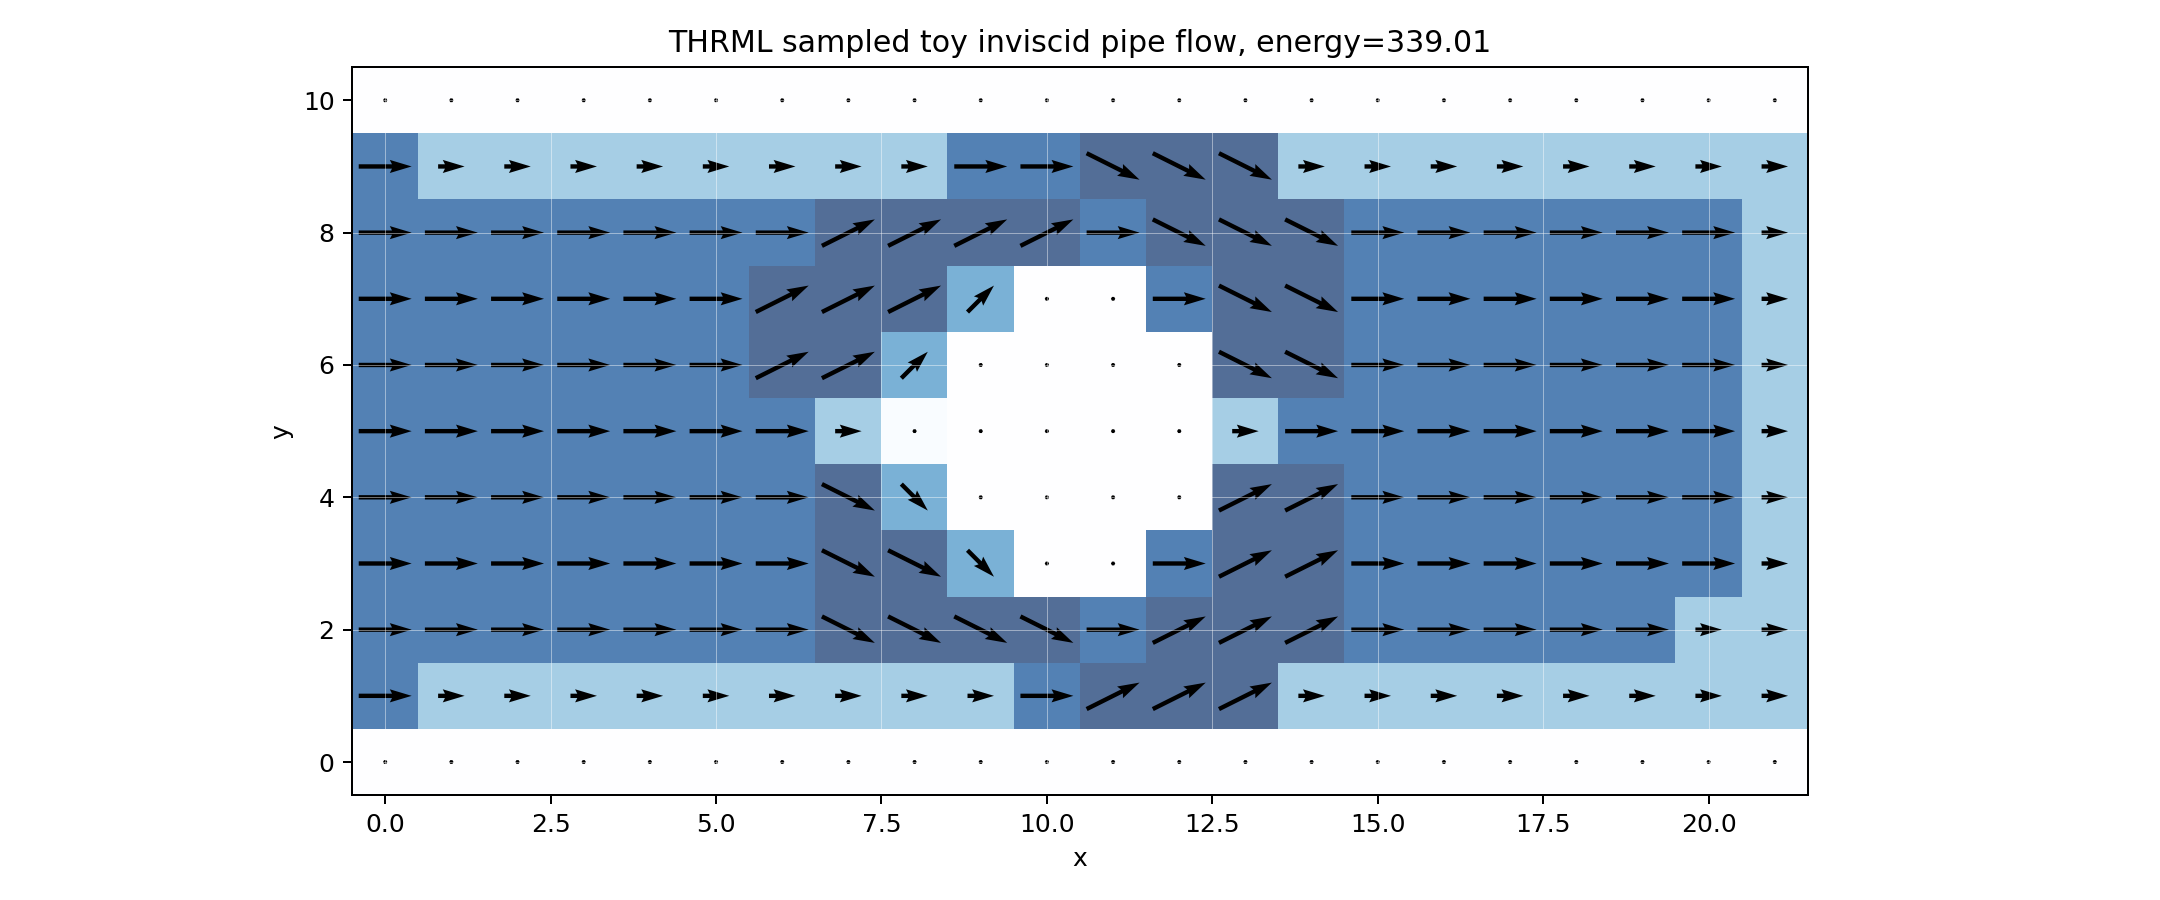
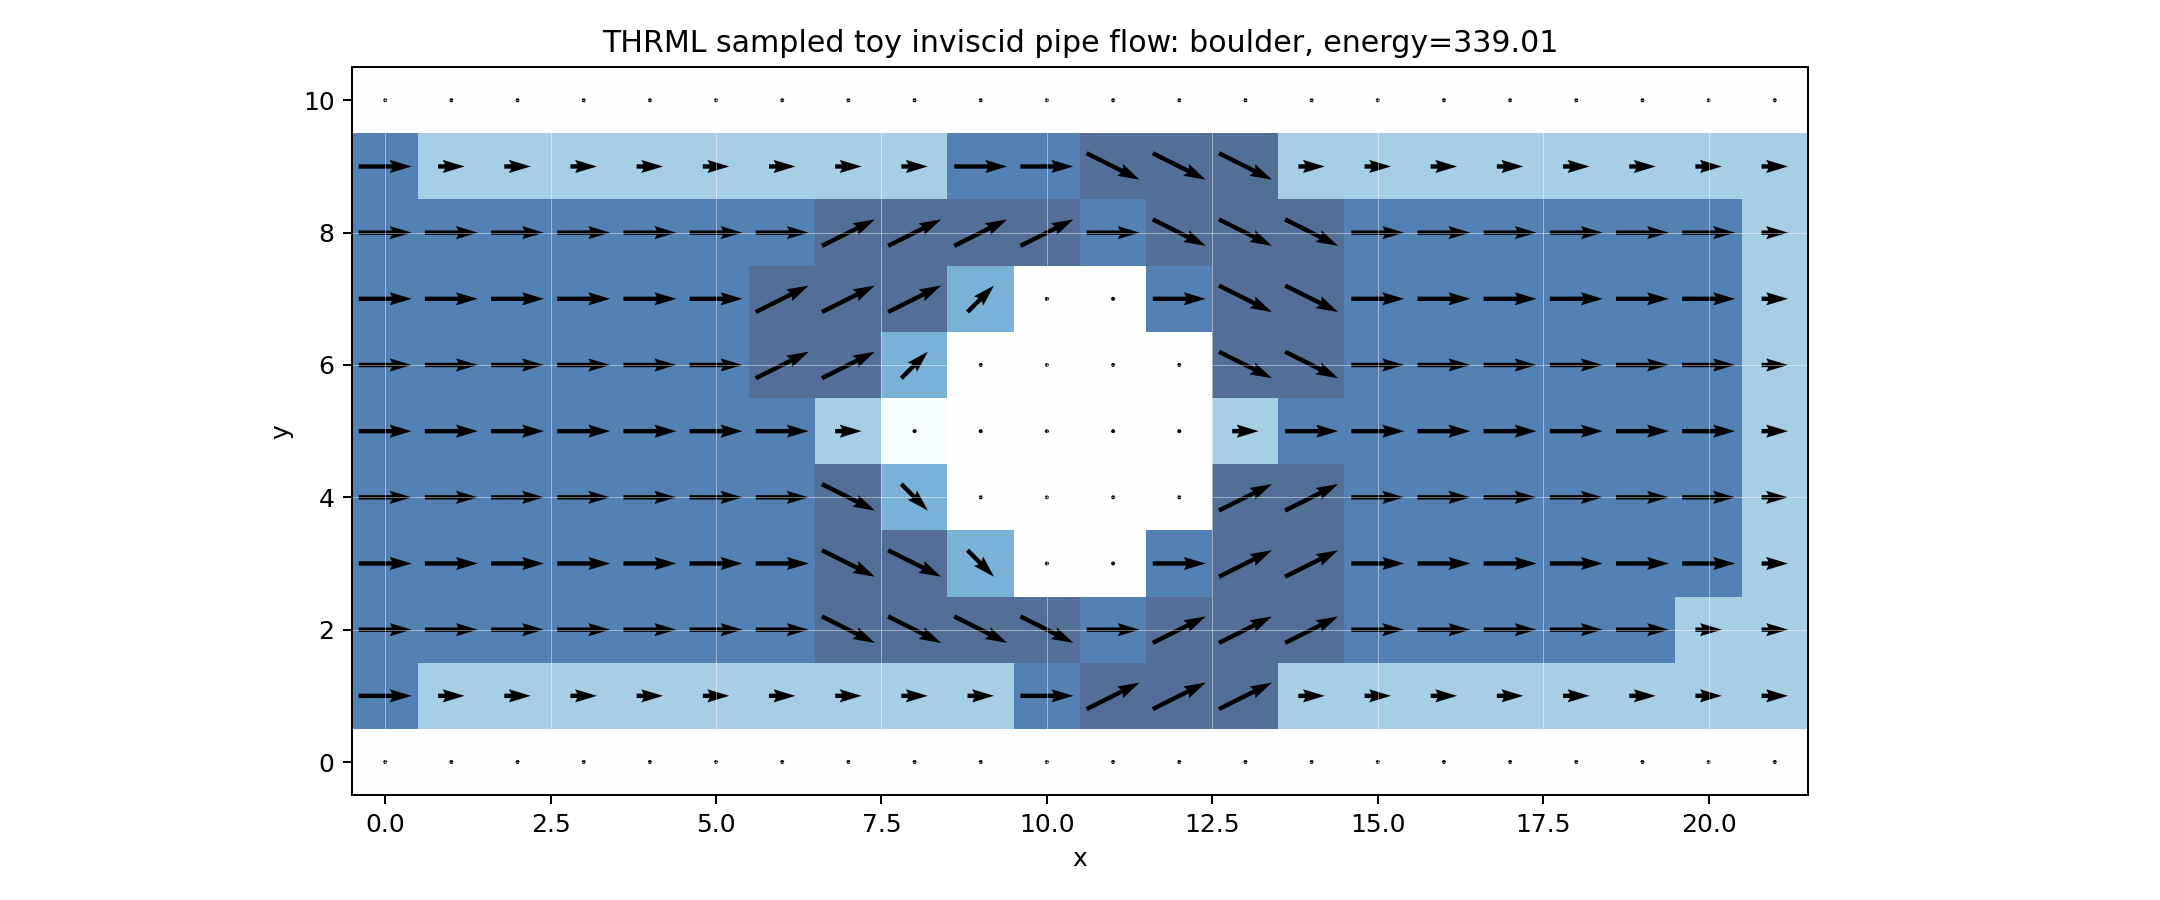
Add additional flow geometries

Changed region(s): [[0.2792, 0.0311, 0.7134, 0.0622]]

diff --git a/fluid_sampler.py b/fluid_sampler.py
@@ -46,8 +46,8 @@ class Grid:
     width: int
     height: int
     solid: np.ndarray
-    obstacle_center: tuple[float, float]
-    obstacle_radius: float
+    round_obstacles: tuple[tuple[float, float, float], ...]
+    rect_obstacles: tuple[tuple[int, int, int, int], ...]
 
     @property
     def n_cells(self) -> int:
@@ -69,6 +69,7 @@ class Weights:
     diagonal_streamline: float = 0.04
     obstacle_deflect: float = 0.9
     obstacle_tangent: float = 1.8
+    rect_deflect: float = 1.5
 
 
 def cell_index(x: int, y: int, width: int) -> int:
@@ -86,12 +87,15 @@ def velocity_categories(max_speed: int) -> tuple[np.ndarray, dict[tuple[int, int
     return cats, index
 
 
-def make_pipe_with_boulder(width: int, height: int, radius: float) -> Grid:
+def pipe_walls(width: int, height: int) -> np.ndarray:
     solid = np.zeros((height, width), dtype=bool)
-
-    # Pipe walls.
     solid[0, :] = True
     solid[-1, :] = True
+    return solid
+
+
+def make_pipe_with_boulder(width: int, height: int, radius: float) -> Grid:
+    solid = pipe_walls(width, height)
 
     # A circular obstacle near the center.
     cx = (width - 1) / 2.0
@@ -105,9 +109,69 @@ def make_pipe_with_boulder(width: int, height: int, radius: float) -> Grid:
         width=width,
         height=height,
         solid=solid,
-        obstacle_center=(cx, cy),
-        obstacle_radius=radius,
+        round_obstacles=((cx, cy, radius),),
+        rect_obstacles=(),
     )
+
+
+def make_pipe_with_twin_boulders(width: int, height: int, radius: float) -> Grid:
+    solid = pipe_walls(width, height)
+    obstacles = (
+        (width * 0.38, height * 0.35, radius),
+        (width * 0.62, height * 0.65, radius),
+    )
+
+    for cx, cy, obstacle_radius in obstacles:
+        for y in range(height):
+            for x in range(width):
+                if (x - cx) ** 2 + (y - cy) ** 2 <= obstacle_radius**2:
+                    solid[y, x] = True
+
+    return Grid(
+        width=width,
+        height=height,
+        solid=solid,
+        round_obstacles=obstacles,
+        rect_obstacles=(),
+    )
+
+
+def make_pipe_with_alternating_fins(width: int, height: int) -> Grid:
+    solid = pipe_walls(width, height)
+    fin_length = max(3, int(round(height * 0.34)))
+    fin_width = 2
+    start_x = max(4, width // 5)
+    spacing = max(5, width // 5)
+
+    rects: list[tuple[int, int, int, int]] = []
+    for i, x0 in enumerate(range(start_x, width - 3, spacing)):
+        x1 = min(width - 1, x0 + fin_width)
+        if i % 2 == 0:
+            y0 = height - fin_length - 1
+            y1 = height - 1
+        else:
+            y0 = 1
+            y1 = fin_length + 1
+        solid[y0:y1, x0:x1] = True
+        rects.append((x0, x1, y0, y1))
+
+    return Grid(
+        width=width,
+        height=height,
+        solid=solid,
+        round_obstacles=(),
+        rect_obstacles=tuple(rects),
+    )
+
+
+def make_grid(geometry: str, width: int, height: int, radius: float) -> Grid:
+    if geometry == "boulder":
+        return make_pipe_with_boulder(width, height, radius)
+    if geometry == "fins":
+        return make_pipe_with_alternating_fins(width, height)
+    if geometry == "twin-boulders":
+        return make_pipe_with_twin_boulders(width, height, radius)
+    raise ValueError(f"unknown geometry: {geometry}")
 
 
 def target_penalty(cats: np.ndarray, target: tuple[int, int], scale: float) -> np.ndarray:
@@ -174,26 +238,41 @@ def build_unary_energy(
                     target = (max(1, inflow - 1), sign * max(1, inflow - 1))
                     energy[idx, :] += target_penalty(cats, target, weights.obstacle_deflect)
 
-            # Boundary-layer surrogate around the boulder. In an inviscid model
-            # the obstacle does not create viscosity, but it should still split
-            # streamlines around the blocked region and then bend them back.
-            cx, cy = grid.obstacle_center
-            dx = x - cx
-            dy = y - cy
-            distance = float(np.hypot(dx, dy))
-            shell_width = 3.0
-            in_obstacle_shell = grid.obstacle_radius < distance <= grid.obstacle_radius + shell_width
-            if in_obstacle_shell and abs(dy) > 0.2:
-                if dx <= 0:
-                    vertical_sign = 1 if dy > 0 else -1
-                else:
-                    vertical_sign = -1 if dy > 0 else 1
+            # Boundary-layer surrogate around round obstacles. In an inviscid
+            # model the obstacle does not create viscosity, but it should still
+            # split streamlines around blocked regions and bend them back.
+            for cx, cy, radius in grid.round_obstacles:
+                dx = x - cx
+                dy = y - cy
+                distance = float(np.hypot(dx, dy))
+                shell_width = 3.0
+                in_obstacle_shell = radius < distance <= radius + shell_width
+                if in_obstacle_shell and abs(dy) > 0.2:
+                    if dx <= 0:
+                        vertical_sign = 1 if dy > 0 else -1
+                    else:
+                        vertical_sign = -1 if dy > 0 else 1
 
-                # Strongest near the solid boundary, weaker at the outer shell.
-                closeness = (grid.obstacle_radius + shell_width - distance) / shell_width
-                tangent_weight = weights.obstacle_tangent * max(0.0, closeness)
-                target = (max(1, inflow), vertical_sign * max(1, inflow))
-                energy[idx, :] += target_penalty(cats, target, tangent_weight)
+                    # Strongest near the solid boundary, weaker at the outer shell.
+                    closeness = (radius + shell_width - distance) / shell_width
+                    tangent_weight = weights.obstacle_tangent * max(0.0, closeness)
+                    target = (max(1, inflow), vertical_sign * max(1, inflow))
+                    energy[idx, :] += target_penalty(cats, target, tangent_weight)
+
+            # Rectangular fin surrogate: cells close to a protruding solid fin
+            # are biased away from the fin and toward the open lane.
+            for x0, x1, y0, y1 in grid.rect_obstacles:
+                closest_x = min(max(x, x0), x1 - 1)
+                closest_y = min(max(y, y0), y1 - 1)
+                distance = float(np.hypot(x - closest_x, y - closest_y))
+                shell_width = 3.0
+                if 0.0 < distance <= shell_width:
+                    cy = (y0 + y1 - 1) / 2.0
+                    vertical_sign = 1 if y > cy else -1
+                    closeness = (shell_width - distance) / shell_width
+                    deflect_weight = weights.rect_deflect * max(0.0, closeness)
+                    target = (max(1, inflow), vertical_sign * max(1, inflow))
+                    energy[idx, :] += target_penalty(cats, target, deflect_weight)
 
     return energy
 
@@ -346,7 +425,7 @@ def score_assignment(
 
 
 def sample_flow(args: argparse.Namespace):
-    grid = make_pipe_with_boulder(args.width, args.height, args.obstacle_radius)
+    grid = make_grid(args.geometry, args.width, args.height, args.obstacle_radius)
     cats, cat_index = velocity_categories(args.max_speed)
     weights = Weights()
     betas = beta_schedule(args.beta_start, args.beta_end, args.anneal_stages)
@@ -380,7 +459,14 @@ def sample_flow(args: argparse.Namespace):
     return grid, cats, best_assignment, best_score
 
 
-def plot_flow(grid: Grid, cats: np.ndarray, assignment: np.ndarray, energy: float, out_path: Path) -> None:
+def plot_flow(
+    grid: Grid,
+    cats: np.ndarray,
+    assignment: np.ndarray,
+    energy: float,
+    geometry: str,
+    out_path: Path,
+) -> None:
     field = cats[assignment].reshape(grid.height, grid.width, 2).astype(float)
     u = field[:, :, 0]
     v = field[:, :, 1]
@@ -396,7 +482,8 @@ def plot_flow(grid: Grid, cats: np.ndarray, assignment: np.ndarray, energy: floa
     ax.imshow(np.where(mask, 1.0, np.nan), origin="lower", cmap="gray_r", alpha=0.95)
     ax.quiver(x, y, u_plot, v_plot, color="black", pivot="middle", scale=55, width=0.003)
 
-    ax.set_title(f"THRML sampled toy inviscid pipe flow, energy={energy:.2f}")
+    title_geometry = geometry.replace("-", " ")
+    ax.set_title(f"THRML sampled toy inviscid pipe flow: {title_geometry}, energy={energy:.2f}")
     ax.set_aspect("equal")
     ax.set_xlim(-0.5, grid.width - 0.5)
     ax.set_ylim(-0.5, grid.height - 0.5)
@@ -412,6 +499,12 @@ def plot_flow(grid: Grid, cats: np.ndarray, assignment: np.ndarray, energy: floa
 
 def build_parser() -> argparse.ArgumentParser:
     parser = argparse.ArgumentParser(description="Sample a toy 2D flow field with THRML.")
+    parser.add_argument(
+        "--geometry",
+        choices=("boulder", "fins", "twin-boulders"),
+        default="boulder",
+        help="pipe obstacle layout to sample",
+    )
     parser.add_argument("--width", type=int, default=22)
     parser.add_argument("--height", type=int, default=11)
     parser.add_argument("--obstacle-radius", type=float, default=2.2)
@@ -435,7 +528,7 @@ def build_parser() -> argparse.ArgumentParser:
 def main() -> int:
     args = build_parser().parse_args()
     grid, cats, assignment, energy = sample_flow(args)
-    plot_flow(grid, cats, assignment, energy, args.output)
+    plot_flow(grid, cats, assignment, energy, args.geometry, args.output)
     print(f"wrote {args.output}")
     return 0
 

diff --git a/README.md b/README.md
@@ -28,7 +28,9 @@ The energy contains:
 - a local obstacle-deflection term that biases right-moving flow into open
   diagonal lanes when a boulder is directly ahead,
 - an obstacle-shell tangent-flow prior that splits streamlines around the
-  boulder and bends them back afterward.
+  boulder and bends them back afterward,
+- a rectangular-fin deflection term that pushes flow away from top/bottom
+  protrusions.
 
 THRML samples from:
 
@@ -53,6 +55,37 @@ The output image is written to:
 
 ```text
 fluid_flow_thrml/outputs/flow.png
+```
+
+## Examples
+
+Single boulder:
+
+```bash
+python fluid_flow_thrml/fluid_sampler.py \
+  --geometry boulder \
+  --output fluid_flow_thrml/outputs/flow.png
+```
+
+Alternating fins protruding from the top and bottom walls:
+
+```bash
+python fluid_flow_thrml/fluid_sampler.py \
+  --geometry fins \
+  --width 28 \
+  --height 13 \
+  --output fluid_flow_thrml/outputs/flow_fins.png
+```
+
+Two offset boulders:
+
+```bash
+python fluid_flow_thrml/fluid_sampler.py \
+  --geometry twin-boulders \
+  --width 28 \
+  --height 13 \
+  --obstacle-radius 1.9 \
+  --output fluid_flow_thrml/outputs/flow_twin_boulders.png
 ```
 
 Try a longer run: